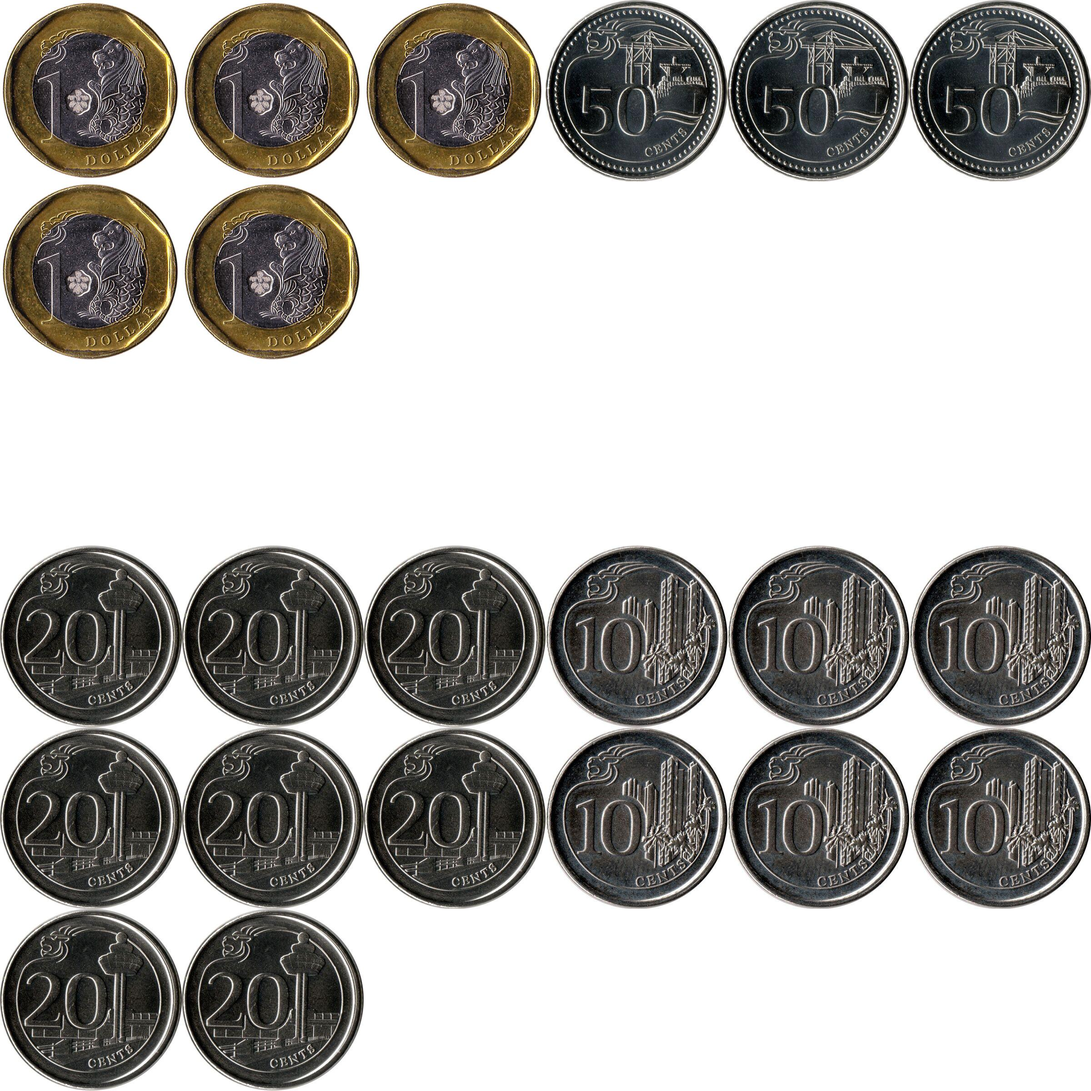
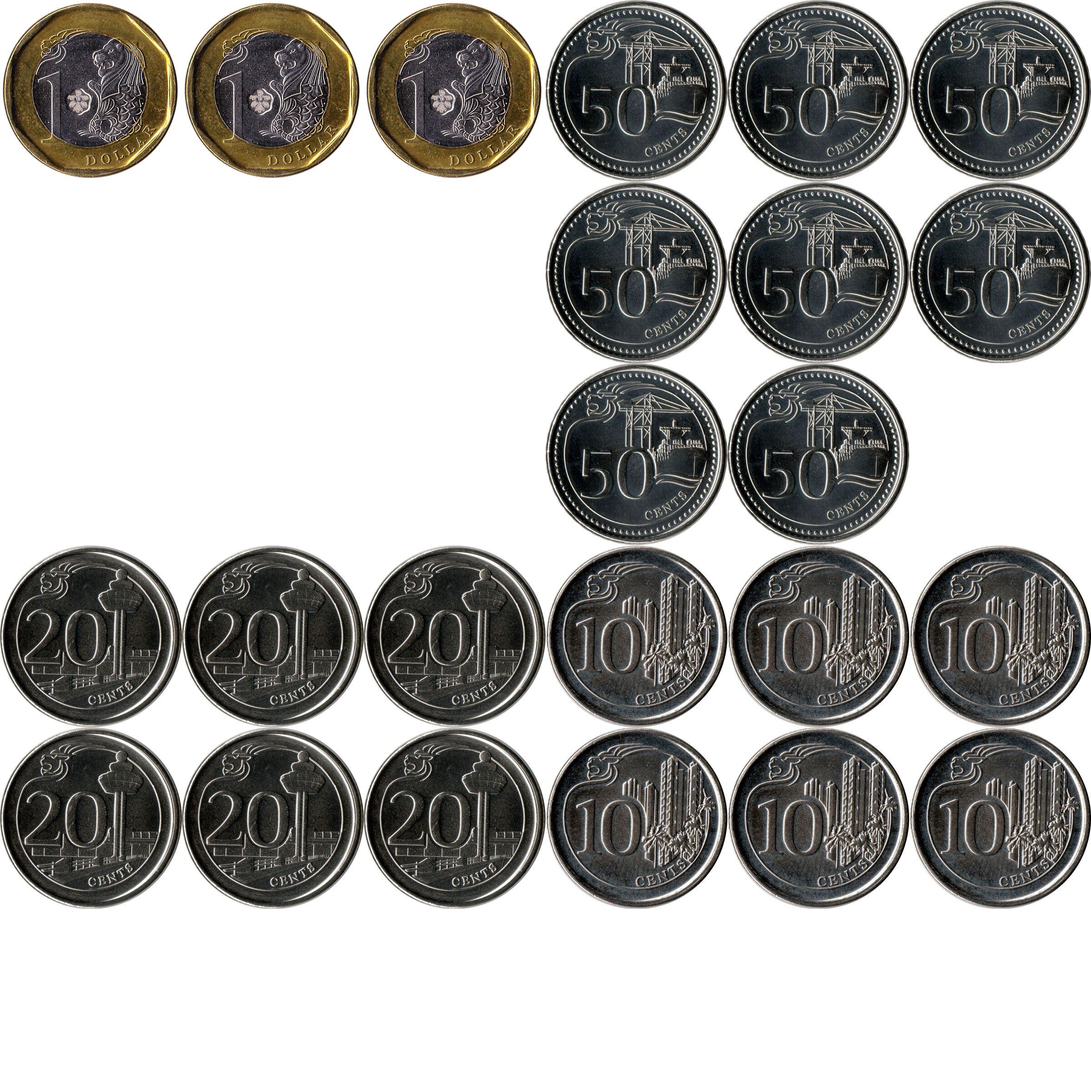
commit to include 1d and scroll in 4a

Changed region(s): [[0.5, 0.1562, 1.0, 0.5], [0.0, 0.1562, 0.3438, 0.3438], [0.0, 0.8125, 0.3438, 1.0]]

diff --git a/stackedwindows.py b/stackedwindows.py
@@ -22,8 +22,9 @@ from PyQt5.QtWidgets import (QApplication,
     QFormLayout,
     QLineEdit,
     QListWidget,
+    QScrollArea,
     )
-from PyQt5.QtGui import QPixmap
+from PyQt5.QtGui import (QPixmap,QWindow)
 #from functools import partial
 from random import randrange
 from PIL import Image
@@ -48,6 +49,8 @@ class Arith100Window(QWidget):
         self._createBanner()
         self._createsimpleqn()
         self._createsimpleqn2()
+        self._createqn1c()
+        self._createqn1d()
 
     def _createBanner(self):
         self.banner = QLabel()
@@ -109,6 +112,60 @@ class Arith100Window(QWidget):
         text = qn1b()
         text = str(text)
         self.simpleqn2.setPlainText(text)
+        
+    def _createqn1c(self):
+        self.createqn1c=QHBoxLayout()
+        self._qn1c()
+        self._button1c()
+        self.generalLayout.addLayout(self.createqn1c)
+    
+    def _qn1c(self):
+        self.qn1c = QTextEdit()
+        self.qn1c.setFixedSize(300,40)
+        text = qn1c()
+        text = str(text)
+        self.qn1c.setPlainText(text)
+        self.qn1c.setReadOnly(True)
+        self.createqn1c.addWidget(self.qn1c)
+    
+    def _button1c(self):
+        self.button1c = QPushButton("Re-generate")
+        self.button1c.clicked.connect(self.regenerate1c)
+        self.button1c.setFixedSize(80, 30)
+        self.createqn1c.addWidget(self.button1c)
+
+    def regenerate1c(self):
+        self.qn1c.setPlainText(" ")
+        text = qn1c()
+        text = str(text)
+        self.qn1c.setPlainText(text)
+        
+    def _createqn1d(self):
+        self.createqn1d=QHBoxLayout()
+        self._qn1d()
+        self._button1d()
+        self.generalLayout.addLayout(self.createqn1d)
+    
+    def _qn1d(self):
+        self.qn1d = QTextEdit()
+        self.qn1d.setFixedSize(300,78)
+        text = qn1d()
+        text = str(text)
+        self.qn1d.setPlainText(text)
+        self.qn1d.setReadOnly(True)
+        self.createqn1d.addWidget(self.qn1d)
+    
+    def _button1d(self):
+        self.button1d = QPushButton("Re-generate")
+        self.button1d.clicked.connect(self.regenerate1d)
+        self.button1d.setFixedSize(80, 30)
+        self.createqn1d.addWidget(self.button1d)
+
+    def regenerate1d(self):
+        self.qn1d.setPlainText(" ")
+        text = qn1d()
+        text = str(text)
+        self.qn1d.setPlainText(text)
 
 class AddSubWindow(QWidget):
     '''
@@ -139,7 +196,7 @@ class AddSubWindow(QWidget):
         
     def _createQuestion(self):
         self.question = QTextEdit()
-        self.question.setFixedSize(300,50)
+        self.question.setFixedSize(300,65)
         text = qn2a()
         text = str(text)
         self.question.setPlainText(text)
@@ -189,7 +246,7 @@ class MulDivWindow(QWidget):
     
     def _qn3a(self):
         self.qn3a = QTextEdit()
-        self.qn3a.setFixedSize(300,40)
+        self.qn3a.setFixedSize(300,50)
         text = qn3a()
         text = str(text)
         self.qn3a.setPlainText(text)
@@ -216,7 +273,7 @@ class MulDivWindow(QWidget):
     
     def _qn3b(self):
         self.qn3b = QTextEdit()
-        self.qn3b.setFixedSize(300,40)
+        self.qn3b.setFixedSize(300,50)
         text = qn3b()
         text = str(text)
         self.qn3b.setPlainText(text)
@@ -240,13 +297,23 @@ class MoneyWindow(QWidget):
     New Window, float free
     '''
     def __init__(self):
-        super().__init__()
+        super().__init__()     
         self.setWindowTitle("Primary 1 / Money")
-        self.setFixedSize(WINDOW_SIZE, WINDOW_SIZE)
+        self.setFixedSize(500, 500)
         self.generalLayout=QVBoxLayout()
+        self.scroll = QScrollArea(self)
+        self.scroll.setHorizontalScrollBarPolicy(Qt.ScrollBarAlwaysOff)
+        self.scroll.setWidgetResizable(True)
+        
         centralWidget = QWidget(self)
         centralWidget.setLayout(self.generalLayout)
+        self.scroll.setWidget(centralWidget)
+        
+        self.outer = QVBoxLayout()
+        self.setLayout(self.outer)
+        
         self.moneybanner()
+        self._createqn4b()
         self._createqn4a()
     
     def moneybanner(self):
@@ -254,7 +321,73 @@ class MoneyWindow(QWidget):
         self.banner.setText("<h3>Primary 1/ Money<h3>")
         self.banner.setAlignment(Qt.AlignCenter)
         self.banner.setFixedHeight(BANNER_HEIGHT)
-        self.generalLayout.addWidget(self.banner)
+        self.banner.setFixedWidth(500)
+        self.outer.addWidget(self.banner)
+        self.outer.addWidget(self.scroll)
+    
+    def _createqn4b(self):
+        self.createqn4b=QHBoxLayout()
+        self._createquestionpartofqn4b()
+        self._button4b()
+        self.generalLayout.addLayout(self.createqn4b)
+    
+    def _createquestionpartofqn4b(self):
+        self.createquestionpartofqn4b=QVBoxLayout()
+        self._qn4b()
+        self._qn4bimages()
+        self.createqn4b.addLayout(self.createquestionpartofqn4b)
+        
+    def _qn4b(self):
+        self.qn4b=QTextEdit()
+        self.qn4b.setFixedSize(350,25)
+        twentycentint, tencentint, text = qn4b()
+        self.twentycentintb = twentycentint
+        self.tencentintb = tencentint
+        
+        self.qn4b.setPlainText(text)
+        self.qn4b.setReadOnly(True)
+        self.createquestionpartofqn4b.addWidget(self.qn4b)
+    
+    def _qn4bimages(self):
+        self.qn4bimages = QLabel()
+        self.qn4bimages.setFixedSize(350,175)
+        twentycent_image = Image.open('src/twentycent.jpg')
+        tencent_image = Image.open('src/tencent.jpg')
+        twentycentmosiac = coinmosiac(twentycent_image, self.twentycentintb)
+        tencentmosiac = coinmosiac(tencent_image, self.tencentintb)
+        bigmosiac = big_mosiac(twentycentmosiac, tencentmosiac)
+        im = bigmosiac.save('src/tempmosiacb.jpg')
+        
+        pixmap = QPixmap('src/tempmosiacb.jpg')
+        self.qn4bimages.setPixmap(pixmap)
+        self.qn4bimages.setScaledContents(True)
+        self.createquestionpartofqn4b.addWidget(self.qn4bimages)
+    
+    def _button4b(self):
+        self.button4b = QPushButton("Re-generate")
+        self.button4b.clicked.connect(self.regenerate4b)
+        self.button4b.setFixedSize(80, 30)
+        self.createqn4b.addWidget(self.button4b)
+
+    def regenerate4b(self):
+        self.qn4b.setPlainText(" ")
+        twentycentint, tencentint, text = qn4b()
+        self.twentycentintb = twentycentint
+        self.tencentintb = tencentint
+        text = str(text)
+        self.qn4b.setPlainText(text)
+        
+        twentycent_image = Image.open('src/twentycent.jpg')
+        tencent_image = Image.open('src/tencent.jpg')
+
+        twentycentmosiac = coinmosiac(twentycent_image, self.twentycentintb)
+        tencentmosiac = coinmosiac(tencent_image, self.tencentintb)
+        bigmosiac = big_mosiac(twentycentmosiac, tencentmosiac)
+        im = bigmosiac.save('src/tempmosiacb.jpg')
+        
+        pixmap = QPixmap('src/tempmosiacb.jpg')
+        self.qn4bimages.setPixmap(pixmap)
+        self.qn4bimages.setScaledContents(True)
     
     def _createqn4a(self):
         self.createqn4a=QHBoxLayout()
@@ -270,7 +403,7 @@ class MoneyWindow(QWidget):
         
     def _qn4a(self):
         self.qn4a=QTextEdit()
-        self.qn4a.setFixedSize(300,25)
+        self.qn4a.setFixedSize(350,25)
         onedollarint, fiftycentint, twentycentint, tencentint, text = qn4a()
         self.onedollarint = onedollarint
         self.fiftycentint = fiftycentint
@@ -283,7 +416,7 @@ class MoneyWindow(QWidget):
     
     def _qn4aimages(self):
         self.qn4aimages = QLabel()
-        self.qn4aimages.setFixedSize(300,300)
+        self.qn4aimages.setFixedSize(350,350)
         onedollar_image = Image.open('src/onedollar.jpg')
         fiftycent_image = Image.open('src/fiftycent.jpg')
         twentycent_image = Image.open('src/twentycent.jpg')

diff --git a/questiongen.py b/questiongen.py
@@ -27,27 +27,79 @@ def qn1b():
         text = str(rnd_int2) + " - " + str(rnd_int1) + "= ?    Ans: " + str(ans)
     return text
 
+def qn1c():
+    rnd_int1=randrange(2,6)
+    rnd_int2=randrange(1,3)
+    common_point=rnd_int1*rnd_int2*5
+    s = ""
+    counter = 0
+    while counter in range(rnd_int1):
+        t = str(str(rnd_int2*5) + " + ")
+        s = s + t
+        counter += 1
+    lhs = s[:-3]
+    rhs = " = ____ + " + str(rnd_int2*5)
+    text = "Fill in the blank: \n" + lhs + rhs + "    Ans: " + str(rnd_int1)
+    return text
+
+def qn1d():
+    rnd_int1=randrange(11,100)
+    lst = []
+    for i in str(rnd_int1):
+        lst.append(i)
+    a = int(lst[0])
+    b = int(lst[1])
+    
+    if a % b == 0 and a != b:
+        c = a/b
+        c = int(c)
+        d = randrange(1,a+1)
+        e = a - d
+        text = "Ahmad is thinking of a 2 digit number.\nThe number in the tens place is " + str(e) + " more than " + str(d) + ".\nThe number in the ones place is the digit in the tens place divided by "+ str(c) +".\nWhat is the number?       Ans: " + str(rnd_int1)
+    elif b % a == 0 and a != b:
+        c = b/a
+        c = int(c)
+        d = randrange(1,a+1)
+        e = a - d
+        text = "Ahmad is thinking of a 2 digit number.\nThe number in the tens place is " + str(e) + " more than " + str(d) + ".\nThe number in the ones place is the digit in the tens place multiplied by "+ str(c) +".\nWhat is the number?       Ans: " + str(rnd_int1)
+    elif a > b:
+        c = a - b
+        d = randrange(1,a+1)
+        e = b - d
+        text = "Ahmad is thinking of a 2 digit number.\nThe number in the ones place is " + str(e) + " more than " + str(d) + ".\nThe number in the tens place is "+ str(c) +" more than the digit in the ones place.\nWhat is the number?       Ans: " + str(rnd_int1)
+    elif b > a:
+        c = b - a
+        d = randrange(1,a+1)
+        e = b - d
+        text = "Ahmad is thinking of a 2 digit number.\nThe number in the ones place is " + str(e) + " more than " + str(d) + ".\nThe number in the tens place is "+ str(c) +" less than the digit in the ones place.\nWhat is the number?       Ans: " + str(rnd_int1)
+    elif a == b:
+        c = randrange(1,a+1)
+        d = a - c
+        text = "Ahmad is thinking of a 2 digit number.\nThe number in the ones place and the tens place are the same.\nThey are " + str(d) + " more than " + str(c) + "\nWhat is the number?       Ans: " + str(rnd_int1)
+    return text
+    
+
 def qn2a():
     rnd_int1=randrange(10,100)
     rnd_int2=randrange(10,100)
     rnd_int3=randrange(10)
     sub1 = rnd_int1-rnd_int3
     sub2 = rnd_int2+rnd_int3
-    text = "John had " + str(sub1) + " apples, and Mary had "+str(sub2) +" apples. If Mary gave "+ str(rnd_int3) + " to John,how many will John and Mary have in the end? Ans: John had " + str(rnd_int1) + ". Mary had " + str(rnd_int2) + "."
+    text = "John had " + str(sub1) + " apples, and Mary had "+str(sub2) +" apples.\nIf Mary gave "+ str(rnd_int3) + " to John,\nhow many will John and Mary have in the end? \nAns: John had " + str(rnd_int1) + ". Mary had " + str(rnd_int2) + "."
     return text
 
 def qn3a():
     rnd_int1=randrange(1,10)
     rnd_int2=randrange(1,10)
     ans = rnd_int1*rnd_int2
-    text = "There are " + str(rnd_int1) + " groups of children. Each group has " + str(rnd_int2) + " children. How many children are there?     Ans: " + str(ans)
+    text = "There are " + str(rnd_int1) + " groups of children. \nEach group has " + str(rnd_int2) + " children. \nHow many children are there?     Ans: " + str(ans)
     return text
 
 def qn3b():
     rnd_int1=randrange(1,6)
     rnd_int2=randrange(1,5)
     ans = rnd_int1*rnd_int2
-    text = "Mrs Tan has " + str(ans) + " sweets. If she splits them into bags of  " + str(rnd_int2) + " sweets, how many bags are there?     Ans: " + str(rnd_int1)
+    text = "Mrs Tan has " + str(ans) + " sweets. \nIf she splits them into bags of  " + str(rnd_int2) + " sweets, \nhow many bags are there?     Ans: " + str(rnd_int1)
     return text
 
 def qn4a():
@@ -57,5 +109,13 @@ def qn4a():
     tencentint = randrange(1,9)
     ans = onedollarint + 0.5*fiftycentint + 0.2*twentycentint + 0.1*tencentint
     ans = round(ans,3)
-    text = "How much money is there below? Ans: $" + str(ans)
+    text = "How much money is there below?     Ans: $" + str(ans)
     return onedollarint, fiftycentint, twentycentint, tencentint, text
+
+def qn4b():
+    twentycentint = randrange(1,9)
+    tencentint = randrange(1,9)
+    ans = 0.2*twentycentint + 0.1*tencentint
+    ans = round(ans,3)
+    text = "How much money is there below?     Ans: $" + str(ans)
+    return twentycentint, tencentint, text

diff --git a/imagegen.py b/imagegen.py
@@ -47,7 +47,10 @@ def coinmosiac(coin_image, coinint, vertical=False):
     
 def big_mosiac(*images, vertical=False):
     width, height = images[0].width, images[0].height
-    tiled_size = width*2, height*2
+    if len(images)==4:
+        tiled_size = width*2, height*2
+    else:
+        tiled_size = width*2, height*1
     tiled_img = Image.new(images[0].mode, tiled_size, color=(255,255,255))
     row , col = 0,0
     for image in images:
